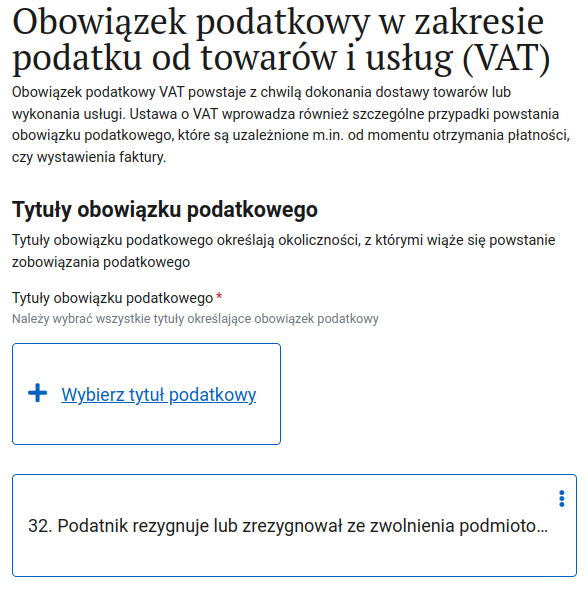
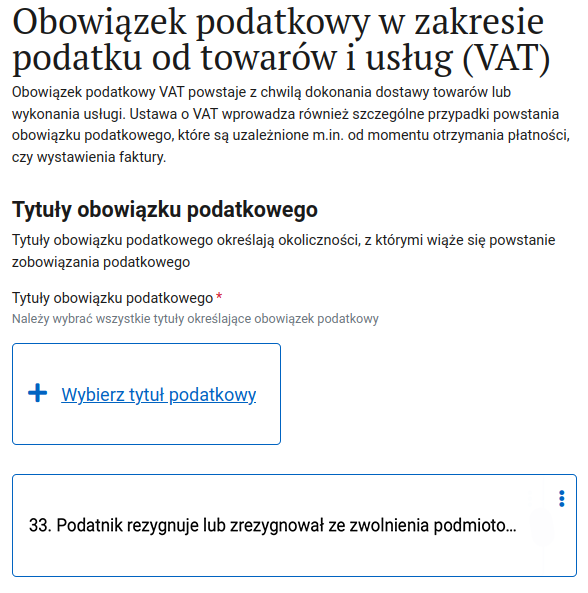
Update for `Tytuł obowiązku podatkowego`

Changed region(s): [[0.0306, 0.8499, 0.9184, 0.9106]]

diff --git a/docs/registration.md b/docs/registration.md
@@ -488,7 +488,7 @@ czynnym плательщиком мы не станем.
 
 ### 6. Причина регистрации VAT-овцем
 
-Выбираем `Tytul obowiązku podmiotowego`: 32.
+Выбираем `Tytuł obowiązku podatkowego`: 33.
 
 ![step-6][62]
 
